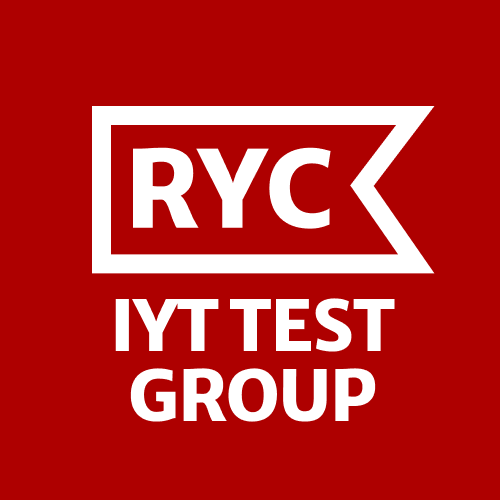
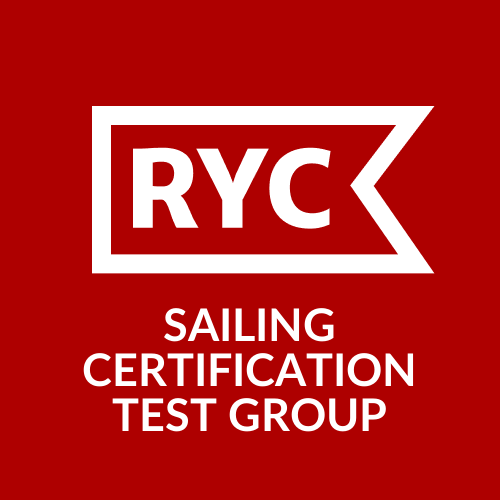
App: "Sailing Certification Test" instead of "IYT Test", and no "IYT" in any text people read
The app, the site pages, the bot texts, the MCP server and the question banks no longer say "IYT":
the product is "Sailing Certification Test", "IYT exam" reads "sailing certification exam"
(«экзамен на яхтенный сертификат»), level titles drop the prefix ("Bareboat Skipper"), and the
disclaimers say "not official exam content". The group picture (miniapp/group.png) now reads
"Sailing Certification Test Group". Bot descriptions are trimmed to stay within Telegram's limits.

Kept as they are: the domain, @iyt_test_bot, the group link, the repo and MCP registry ids,
storage keys, and "IYT" in code comments and internal names. Not live yet: npm run db:load
(level titles, three questions), npm run bot:setup, the deploy, and the group's name in Telegram.

Changed region(s): [[0.15, 0.57, 0.84, 0.87]]

diff --git a/miniapp/app.js b/miniapp/app.js
@@ -125,7 +125,7 @@ const STR = {
     picPh: 'For example: the starboard sidelight is drawn red, it should be green',
     readUpK: 'Where to read', mistakesIn: (n) => pl(n, 'mistake'),
     soon: 'Coming soon', soon2027: 'Coming in 2027', planned: 'Planned',
-    homeKicker: 'IYT theory · free', homeTitle: 'Pass your IYT&nbsp;exam',
+    homeKicker: 'Sailing certification theory · free', homeTitle: 'Pass your sailing certification&nbsp;exam',
     homeLead: 'Close-to-real questions for every certification level, with an explanation after each answer. Pick the level you are studying for.',
     streak: (n) => `${n}-day streak`,
     levelMeta: (t, q, ex) => `${pl(t, 'topic')} · ${pl(q, 'question')}${ex ? ' · ' + pl(ex, 'exam') + ' taken' : ''}`,
@@ -134,8 +134,8 @@ const STR = {
     mastered: 'mastered', covered: 'covered', halfway: 'right once', halfwayN: (n) => `+${n} right once`, moreLevels: 'More levels',
     regK: 'Game', regTitle: 'Regatta: sail a race in 3D', regText: 'Race a yacht against three boats round a windward–leeward course, in light, medium or strong wind. Steer, trim the sheet, tack and read the gusts.', regBtn: 'Play',
     mcpK: 'For AI assistants', mcpTitle: 'Practise in Claude or ChatGPT', mcpText: 'The questions and the theory are also an MCP server: add it to your AI assistant and it quizzes you, checks your answers and explains the rule.', mcpBtn: 'How to connect it',
-    grpK: 'Discuss the questions', grpName: 'IYT Test · Discussion', grpRole: 'Telegram group for students', grpText: 'Ask why an answer is right, talk through the tricky ones, tell how your exam went.', grpBtn: 'Join the group',
-    fbK: 'Feedback?', fbRole: 'Author of IYT Test', fbText: 'Found a mistake in a question, missing a topic or have an idea? Write to me on Telegram, I read every message.', fbBtn: 'Write on Telegram',
+    grpK: 'Discuss the questions', grpName: 'Sailing Certification Test · Discussion', grpRole: 'Telegram group for students', grpText: 'Ask why an answer is right, talk through the tricky ones, tell how your exam went.', grpBtn: 'Join the group',
+    fbK: 'Feedback?', fbRole: 'Author of Sailing Certification Test', fbText: 'Found a mistake in a question, missing a topic or have an idea? Write to me on Telegram, I read every message.', fbBtn: 'Write on Telegram',
     ringLabel: (s, m) => `${s}% seen · ${m}% mastered`, answers: 'Answer options', figure: 'Figure',
     figNames: { anchor: 'Anchorage sketch', boat: 'Parts of a yacht', lines: 'Mooring lines', radio: 'VHF set', flag: 'Signal flags', tide: 'Tidal curve', sphere: 'Celestial sphere', altitude: 'Sextant altitude', bay: 'Bay chart', buoy: 'Buoy', card: 'Notes', chart: 'Chart extract', compass: 'Compass rose', dayshape: 'Day shape', encounter: 'Two vessels meeting', isobars: 'Weather map', lights: 'Navigation lights', panel: 'Instrument panel', rope: 'Rope and knot', sail: 'Sailing boat and wind' }, timeLeft: 'Time left', fiveLeft: '5 minutes left',
     nextLevelK: 'Next level', open: 'Open', resetNothing: 'Nothing to reset yet', retry: 'Try again', allTopicsChip: 'All topics',
@@ -169,7 +169,7 @@ const STR = {
       ['No explanations until you submit', 'Afterwards every mistake shows the right answer and why.'],
       ['Leaving pauses the timer', 'Close the app and the exam waits for you, up to 24 hours.']],
     lastAttempts: 'Last attempts', passedW: 'passed', notPassedW: 'not passed',
-    examDefaults: () => (LEVEL.id === 'racing-rules' ? 'Exam size, time and pass mark are app defaults — there is no official rules exam.' : LEVEL.id === 'charter-checkin' ? 'Exam size, time and pass mark are app defaults — there is no check-in exam, only a boat to take over.' : 'Exam size, time and pass mark are app defaults, not confirmed IYT figures.'),
+    examDefaults: () => (LEVEL.id === 'racing-rules' ? 'Exam size, time and pass mark are app defaults — there is no official rules exam.' : LEVEL.id === 'charter-checkin' ? 'Exam size, time and pass mark are app defaults — there is no check-in exam, only a boat to take over.' : 'Exam size, time and pass mark are app defaults, not official exam figures.'),
     startExam: 'Start the exam', continueExam: 'Continue the exam', startOver: 'Start over',
     confirmRestart: 'Start a new exam? The one in progress will be dropped.',
     nOf: (i, n) => `${i} of ${n}`, nextArrow: 'Next ›', finishDots: 'Finish…', prevArrow: '‹ Previous', allQuestions: 'All questions',
@@ -184,7 +184,7 @@ const STR = {
     costMost: (list) => `${list} cost you the most points.`, workFirst: 'Work on these first', fine: 'Fine',
     backToLevel: 'Back to the level', practiseWeak: (w) => `Practise the ${pl(w, 'topic')}`.replace('topic', 'weak topic'), practise: 'Practise', share: 'Share',
     reviewN: (n) => `Review ${pl(n, 'mistake')}`,
-    shareText: (p, lv) => (LEVEL.id === 'racing-rules' ? `I scored ${p}% on the ${lv} mock exam — situations on the race course, by the rules:` : LEVEL.id === 'charter-checkin' ? `I scored ${p}% on the ${lv} mock exam — taking over a charter yacht, step by step:` : `I scored ${p}% on the IYT ${lv} mock exam — practice questions for IYT levels:`), copied: 'Copied to the clipboard',
+    shareText: (p, lv) => (LEVEL.id === 'racing-rules' ? `I scored ${p}% on the ${lv} mock exam — situations on the race course, by the rules:` : LEVEL.id === 'charter-checkin' ? `I scored ${p}% on the ${lv} mock exam — taking over a charter yacht, step by step:` : `I scored ${p}% on the ${lv} mock exam — practice questions for sailing certification levels:`), copied: 'Copied to the clipboard',
     thisWeek: 'This week', answeredW: 'answered', dayStreak: 'day streak', masteryByTopic: 'Mastery by topic', practiseWeakest: 'Practise weakest ›',
     misMeta: (n) => `${pl(n, 'question')} answered wrong and not yet mastered`, noneNow: 'None right now',
     flaggedQ: 'Flagged questions', flagHint: 'Flag a question to keep it here',
@@ -196,7 +196,7 @@ const STR = {
     explain: 'Explain after each answer', explainMeta: 'Off = exam style, results at the end',
     reset: 'Reset progress', resetMeta: 'Mastery, mistakes, streak and exams', resetBtn: 'Reset',
     confirmReset: 'Reset all progress? Mastery, mistakes, streak and exam history will be cleared.', resetDone: 'Progress reset',
-    disclaimer: (v) => (LEVEL.id === 'racing-rules' ? `Questions are written for study from the Racing Rules of Sailing 2025–2028 and are not a World Sailing publication; the rules themselves are the authority. Bank version ${v}.` : LEVEL.id === 'charter-checkin' ? `Questions are written for study and are not any charter company's procedure; your contract and the base's briefing are the authority. Bank version ${v}.` : `Questions are written for study and are not official IYT exam content. Bank version ${v}.`), partEnglish: '', loading: 'Loading…',
+    disclaimer: (v) => (LEVEL.id === 'racing-rules' ? `Questions are written for study from the Racing Rules of Sailing 2025–2028 and are not a World Sailing publication; the rules themselves are the authority. Bank version ${v}.` : LEVEL.id === 'charter-checkin' ? `Questions are written for study and are not any charter company's procedure; your contract and the base's briefing are the authority. Bank version ${v}.` : `Questions are written for study and are not official exam content. Bank version ${v}.`), partEnglish: '', loading: 'Loading…',
     whatToPractise: 'What to practise?', all: 'All', none: 'None', weakPre: 'Weak topics are preselected. ', tapToggle: 'Tap a topic to practise just that; tap more to add.',
     questionsK: 'Questions', allN: (n) => `All ${n}`, mistakesOnly: 'Mistakes only', showAnswer: 'Explain after each answer',
     start: (n) => `Start · ${pl(n, 'question')}`, pickTopic: 'Pick a topic',
@@ -244,7 +244,7 @@ const STR = {
     picPh: 'Например: правый бортовой огонь нарисован красным, а должен быть зелёным',
     readUpK: 'Что почитать', mistakesIn: (n) => pl(n, 'mistake'),
     soon: 'Скоро', soon2027: 'В 2027 году', planned: 'В планах',
-    homeKicker: 'Теория IYT · бесплатно', homeTitle: 'Сдайте экзамен&nbsp;IYT',
+    homeKicker: 'Теория к яхтенным сертификатам · бесплатно', homeTitle: 'Сдайте экзамен на яхтенный&nbsp;сертификат',
     homeLead: 'Вопросы, близкие к настоящему экзамену, для каждого уровня — с пояснением после каждого ответа. Выберите уровень, к которому готовитесь.',
     streak: (n) => `${pl(n, 'day')} подряд`,
     levelMeta: (t, q, ex) => `${pl(t, 'topic')} · ${pl(q, 'question')}${ex ? ' · ' + pl(ex, 'exam') : ''}`,
@@ -253,8 +253,8 @@ const STR = {
     mastered: 'освоено', covered: 'пройдено', halfway: 'верно 1 раз', halfwayN: (n) => `+${n} верно 1 раз`, moreLevels: 'Другие уровни',
     regK: 'Игра', regTitle: 'Регата: гонка под парусом в 3D', regText: 'Гонка на яхте против трёх лодок по курсу «апвинд — даунвинд» при слабом, среднем или сильном ветре. Рули, работай шкотом, делай повороты и лови порывы.', regBtn: 'Играть',
     mcpK: 'Для ИИ-ассистентов', mcpTitle: 'Тренируйтесь в Claude или ChatGPT', mcpText: 'Вопросы и теория доступны и как MCP-сервер: добавьте его в свой ИИ-ассистент, и он будет задавать вопросы, проверять ответы и объяснять правило.', mcpBtn: 'Как подключить',
-    grpK: 'Обсуждайте вопросы', grpName: 'IYT Test · Discussion', grpRole: 'Группа в Telegram для тех, кто готовится', grpText: 'Спросите, почему ответ верный, разберите сложные вопросы, расскажите, как прошёл экзамен.', grpBtn: 'Вступить в группу',
-    fbK: 'Есть отзыв?', fbRole: 'Автор IYT Test', fbText: 'Нашли ошибку в вопросе, не хватает темы или есть идея? Напишите мне в Telegram — читаю каждое сообщение.', fbBtn: 'Написать в Telegram',
+    grpK: 'Обсуждайте вопросы', grpName: 'Sailing Certification Test · Discussion', grpRole: 'Группа в Telegram для тех, кто готовится', grpText: 'Спросите, почему ответ верный, разберите сложные вопросы, расскажите, как прошёл экзамен.', grpBtn: 'Вступить в группу',
+    fbK: 'Есть отзыв?', fbRole: 'Автор Sailing Certification Test', fbText: 'Нашли ошибку в вопросе, не хватает темы или есть идея? Напишите мне в Telegram — читаю каждое сообщение.', fbBtn: 'Написать в Telegram',
     ringLabel: (s, m) => `${s}% пройдено · ${m}% освоено`, answers: 'Варианты ответа', figure: 'Рисунок',
     figNames: { anchor: 'Схема якорной стоянки', boat: 'Устройство яхты', lines: 'Швартовы', radio: 'УКВ-радиостанция', flag: 'Сигнальные флаги', tide: 'Кривая прилива', sphere: 'Небесная сфера', altitude: 'Высота светила', bay: 'Карта бухты', buoy: 'Буй', card: 'Заметки', chart: 'Фрагмент карты', compass: 'Картушка компаса', dayshape: 'Дневной знак', encounter: 'Расхождение двух судов', isobars: 'Карта погоды', lights: 'Навигационные огни', panel: 'Приборная панель', rope: 'Трос и узел', sail: 'Парусная яхта и ветер' }, timeLeft: 'Осталось времени', fiveLeft: 'Осталось 5 минут',
     nextLevelK: 'Следующий уровень', open: 'Открыть', resetNothing: 'Сбрасывать пока нечего', retry: 'Повторить', allTopicsChip: 'Все темы',
@@ -288,7 +288,7 @@ const STR = {
       ['Пояснения — только после сдачи', 'Потом у каждой ошибки будет верный ответ и пояснение.'],
       ['Выход ставит таймер на паузу', 'Закройте приложение — экзамен подождёт до 24 часов.']],
     lastAttempts: 'Последние попытки', passedW: 'сдан', notPassedW: 'не сдан',
-    examDefaults: () => (LEVEL.id === 'racing-rules' ? 'Число вопросов, время и проходной балл — настройки приложения: официального экзамена по правилам нет.' : LEVEL.id === 'charter-checkin' ? 'Число вопросов, время и проходной балл — настройки приложения: экзамена по приёмке яхты нет, есть только сама яхта.' : 'Число вопросов, время и проходной балл — настройки приложения, а не подтверждённые данные IYT.'),
+    examDefaults: () => (LEVEL.id === 'racing-rules' ? 'Число вопросов, время и проходной балл — настройки приложения: официального экзамена по правилам нет.' : LEVEL.id === 'charter-checkin' ? 'Число вопросов, время и проходной балл — настройки приложения: экзамена по приёмке яхты нет, есть только сама яхта.' : 'Число вопросов, время и проходной балл — настройки приложения, а не официальные данные экзамена.'),
     startExam: 'Начать экзамен', continueExam: 'Продолжить экзамен', startOver: 'Начать заново',
     confirmRestart: 'Начать новый экзамен? Текущий будет сброшен.',
     nOf: (i, n) => `${i} из ${n}`, nextArrow: 'Далее ›', finishDots: 'Завершить…', prevArrow: '‹ Назад', allQuestions: 'Все вопросы',
@@ -303,7 +303,7 @@ const STR = {
     costMost: (list) => `Больше всего баллов потеряно в темах: ${list}.`, workFirst: 'Сначала подтяните', fine: 'В порядке',
     backToLevel: 'К уровню', practiseWeak: (w) => `Тренировать слабые темы (${w})`, practise: 'Тренировка', share: 'Поделиться',
     reviewN: (n) => `Разобрать ошибки (${n})`,
-    shareText: (p, lv) => (LEVEL.id === 'racing-rules' ? `Мой результат на пробном экзамене по правилам парусных гонок — ${p}%. Ситуации на дистанции по ППГ-25:` : LEVEL.id === 'charter-checkin' ? `Мой результат на пробном экзамене по приёмке чартерной яхты — ${p}%. Чек-ин шаг за шагом:` : `Мой результат на пробном экзамене IYT ${lv} — ${p}%. Вопросы для подготовки к IYT:`), copied: 'Скопировано',
+    shareText: (p, lv) => (LEVEL.id === 'racing-rules' ? `Мой результат на пробном экзамене по правилам парусных гонок — ${p}%. Ситуации на дистанции по ППГ-25:` : LEVEL.id === 'charter-checkin' ? `Мой результат на пробном экзамене по приёмке чартерной яхты — ${p}%. Чек-ин шаг за шагом:` : `Мой результат на пробном экзамене ${lv} — ${p}%. Вопросы для подготовки к яхтенным сертификатам:`), copied: 'Скопировано',
     thisWeek: 'Эта неделя', answeredW: 'отвечено', dayStreak: (n) => `${word(n, 'day')} подряд`, masteryByTopic: 'Освоение по темам', practiseWeakest: 'Тренировать слабые ›',
     misMeta: (n) => `Вопросов с ошибкой, ещё не освоенных: ${n}`, noneNow: 'Сейчас нет',
     flaggedQ: 'Отмеченные вопросы', flagHint: 'Отметьте вопрос — он появится здесь',
@@ -315,7 +315,7 @@ const STR = {
     explain: 'Пояснение после ответа', explainMeta: 'Выкл. — как на экзамене, итог в конце',
     reset: 'Сбросить прогресс', resetMeta: 'Освоение, ошибки, серия дней и экзамены', resetBtn: 'Сбросить',
     confirmReset: 'Сбросить весь прогресс? Освоение, ошибки, серия дней и история экзаменов будут удалены.', resetDone: 'Прогресс сброшен',
-    disclaimer: (v) => (LEVEL.id === 'racing-rules' ? `Вопросы написаны для подготовки по Правилам парусных гонок 2025–2028 и не являются публикацией World Sailing; сами правила — единственный источник. Версия банка ${v}.` : LEVEL.id === 'charter-checkin' ? `Вопросы написаны для подготовки и не являются процедурой какой-либо чартерной компании; ваш договор и брифинг на базе — единственный источник. Версия банка ${v}.` : `Вопросы написаны для подготовки и не являются официальными вопросами экзамена IYT. Версия банка ${v}.`),
+    disclaimer: (v) => (LEVEL.id === 'racing-rules' ? `Вопросы написаны для подготовки по Правилам парусных гонок 2025–2028 и не являются публикацией World Sailing; сами правила — единственный источник. Версия банка ${v}.` : LEVEL.id === 'charter-checkin' ? `Вопросы написаны для подготовки и не являются процедурой какой-либо чартерной компании; ваш договор и брифинг на базе — единственный источник. Версия банка ${v}.` : `Вопросы написаны для подготовки и не являются официальными вопросами экзамена. Версия банка ${v}.`),
     loading: 'Загрузка…',
     partEnglish: ' Перевод вопросов готовится — пока часть из них на английском.',
     whatToPractise: 'Что тренируем?', all: 'Все', none: 'Снять все', weakPre: 'Слабые темы уже выбраны. ', tapToggle: 'Нажмите тему, чтобы тренировать только её; ещё одну — чтобы добавить.',
@@ -848,7 +848,7 @@ function bootSkeleton() {
     b.querySelector('.sk-hero').outerHTML = `<div class="band resume">${sk('80px', '13px', ';margin:1.5px 0')}<div class="row" style="gap:14px"><span class="sk sk-ring"></span><div class="stack">${sk('120px', '15px', ';margin:2px 0')}${sk('140px', '12px', ';margin:2px 0')}</div></div>${sk('100%', '50px', ';border-radius:25px')}</div>`;
     b.querySelector('.sk-levels').insertAdjacentHTML('afterbegin', sk('60px', '13px', ';margin:1.5px 0'));
   }
-  if (!IN_TG) $app.insertAdjacentHTML('afterbegin', '<div class="tgh"><span></span><b>IYT Test</b><span></span></div>');
+  if (!IN_TG) $app.insertAdjacentHTML('afterbegin', '<div class="tgh"><span></span><b>Sailing Certification Test</b><span></span></div>');
   $app.insertAdjacentHTML('beforeend', navHtml('home', false));
   paintIcons($app);
 }
@@ -1397,7 +1397,7 @@ const VIEWS = {
         <p class="body-muted">${t('homeLead')}</p></div>`;
     const more = LEVELS.filter((l) => !(l.id && lvMeta(l.id)));
     return {
-      title: 'IYT Test', nav: 'home',
+      title: 'Sailing Certification Test', nav: 'home',
       body: `<div class="row sb-between" style="min-height:40px"><img class="logo" src="design/logo-black.svg" alt="RYC">${st ? `<span class="streak${grew ? ' grew' : ''}"><span class="fire" data-i="fire" data-s="14"></span>${t('streak', st)}</span>` : ''}</div>
         ${top}
         ${S.exam ? `<div class="continue" data-act="resumeExam"><div><span class="meta">${t('examOpen')}</span><div class="card-title" style="margin-top:4px">${examLine()}</div></div><span class="mini mini-accent">${t('continue')}</span></div>` : ''}
@@ -1667,7 +1667,7 @@ const VIEWS = {
     const exams = myExams().slice(0, 5).map((e) => `<div class="att"><span class="card-meta">${day(e.at)}</span><span class="card-meta">${e.pct}% · <span class="${e.passed ? 'acc' : 'bad-t'}">${e.passed ? t('passedW') : t('notPassedW')}</span></span></div>`).join('');
     const weakest = TOPICS.filter((tp) => topicSeen(tp.id)).sort((a, b) => topicAcc(a.id) - topicAcc(b.id) || topicPct(a.id) - topicPct(b.id)).slice(0, 3);
     return {
-      title: 'IYT Test', nav: 'progress',
+      title: 'Sailing Certification Test', nav: 'progress',
       body: `<div class="stack g4"><span class="meta">${LEVEL.title}${S.total ? ' · ' + t('answeredN', S.total) : ''}</span><h2 class="display-s">${t('progress')}</h2></div>
         <div class="stats"><div class="stat"><b data-count="${sp}" data-suffix="%" data-k="seen:${LEVEL.id}">${sp}%</b><span class="meta">${t('covered')}</span></div><div class="stat"><b data-count="${m}" data-k="m:${LEVEL.id}">${m}</b><span class="meta">${t('mastered')}</span></div><div class="stat"><b data-count="${st}" data-k="streak">${st}</b><span class="meta">${t('dayStreak', st)}</span></div></div>
         <div class="band" style="padding:16px 18px"><div class="row sb-between" style="margin-bottom:12px"><span class="kicker">${t('thisWeek')}</span><span class="meta">${pl(sum, 'question')}</span></div><div class="days">${days}</div></div>
@@ -1700,7 +1700,7 @@ const VIEWS = {
     // admins get the admin pages (api/admin.mjs says who)
     const admin = ADMIN ? `<div class="set" data-act="admin"><div><div class="card-title">${t('adminT')}</div><div class="card-meta">${t('adminMeta')}</div></div><span class="val">${svg('next', 16)}</span></div>` : '';
     return {
-      title: 'IYT Test', nav: 'profile',
+      title: 'Sailing Certification Test', nav: 'profile',
       body: `<div class="row" style="gap:14px"><span class="tg-ava" style="width:52px;height:52px;font-size:16px">${ava}</span><div><div class="card-title" style="font-size:18px">${esc(name)}</div>
           <div class="card-meta">${u ? (u.username ? '@' + esc(u.username) + ' · ' : '') + t('syncedTg') : t('savedBrowser')}</div></div></div>
         <div class="stack">

diff --git a/miniapp/index.html b/miniapp/index.html
@@ -4,9 +4,9 @@
 <meta charset="utf-8">
 <meta name="viewport" content="width=device-width, initial-scale=1, viewport-fit=cover">
 <meta name="theme-color" content="#ffffff">
-<title>IYT practice test: exam questions and theory, from VHF to Yachtmaster Ocean · IYT Test</title>
+<title>Sailing certification practice test: exam questions and theory, from VHF to Yachtmaster Ocean · Sailing Certification Test</title>
 <!-- for search engines and link previews; the address is SITE in site.mjs -->
-<meta name="description" content="Free IYT practice tests for every sailing level, VHF Radio Operator to Yachtmaster Ocean: drawn exam questions, the reason after every answer, theory and timed mock exams.">
+<meta name="description" content="Free sailing certification practice tests for every level, VHF Radio Operator to Yachtmaster Ocean: drawn exam questions, the reason after every answer, theory and timed mock exams.">
 <link rel="icon" href="/favicon.ico" sizes="48x48">
 <link rel="icon" href="/icon.png" sizes="192x192" type="image/png">
 <link rel="apple-touch-icon" href="/apple-icon.png">
@@ -17,15 +17,15 @@
 <link rel="alternate" hreflang="ru" href="https://iyt.rycrentals.com/ru">
 <link rel="alternate" hreflang="x-default" href="https://iyt.rycrentals.com/">
 <meta property="og:type" content="website">
-<meta property="og:site_name" content="IYT Test">
+<meta property="og:site_name" content="Sailing Certification Test">
 <meta property="og:url" content="https://iyt.rycrentals.com/">
-<meta property="og:title" content="IYT practice test: from VHF to Yachtmaster Ocean">
-<meta property="og:description" content="Free practice questions for every IYT sailing level: drawn situations, a note on every answer, timed mock exams. In English and Russian.">
+<meta property="og:title" content="Sailing certification practice test: from VHF to Yachtmaster Ocean">
+<meta property="og:description" content="Free practice questions for every sailing certification level: drawn situations, a note on every answer, timed mock exams. In English and Russian.">
 <meta property="og:image" content="https://iyt.rycrentals.com/intro.jpg">
 <meta property="og:image:width" content="1280">
 <meta property="og:image:height" content="720">
 <meta name="twitter:card" content="summary_large_image">
-<script type="application/ld+json">{"@context":"https://schema.org","@type":"WebApplication","name":"IYT Test","url":"https://iyt.rycrentals.com/","description":"Free practice questions for IYT sailing certification levels, from VHF Radio Operator to Yachtmaster Ocean, with mock exams. Written for study; not an IYT publication.","applicationCategory":"EducationalApplication","operatingSystem":"Web, Telegram","inLanguage":["en","ru"],"isAccessibleForFree":true,"offers":{"@type":"Offer","price":"0","priceCurrency":"USD"}}</script>
+<script type="application/ld+json">{"@context":"https://schema.org","@type":"WebApplication","name":"Sailing Certification Test","url":"https://iyt.rycrentals.com/","description":"Free practice questions for sailing certification levels, from VHF Radio Operator to Yachtmaster Ocean, with mock exams. Written for study; not an official exam publication.","applicationCategory":"EducationalApplication","operatingSystem":"Web, Telegram","inLanguage":["en","ru"],"isAccessibleForFree":true,"offers":{"@type":"Offer","price":"0","priceCurrency":"USD"}}</script>
 <script src="https://telegram.org/js/telegram-web-app.js"></script>
 <link rel="stylesheet" href="fonts/fonts.css">
 <link rel="stylesheet" href="design/app.css">
@@ -35,11 +35,11 @@
 <body>
 <!-- what a reader (or a crawler) without JavaScript gets: the home page in words; build.mjs fills in the levels from the banks -->
 <noscript><div class="wrap" style="padding:24px 16px">
-  <h1 class="display">IYT exam practice</h1>
-  <p class="body-muted">Close-to-real questions for every IYT certification level, with an explanation after each answer: drawn situations (the mark ahead, the lights at night, the other boat's bearing), practice by topic and a timed mock exam. Free, in English and Russian. Written for study; not an IYT publication.</p>
-  <p class="body-muted" lang="ru">Вопросы для подготовки к экзаменам IYT на английском и русском — с пояснением после каждого ответа. <a href="/ru">Русская версия</a>.</p>
+  <h1 class="display">Sailing certification exam practice</h1>
+  <p class="body-muted">Close-to-real questions for every sailing certification level, with an explanation after each answer: drawn situations (the mark ahead, the lights at night, the other boat's bearing), practice by topic and a timed mock exam. Free, in English and Russian. Written for study; not an official exam publication.</p>
+  <p class="body-muted" lang="ru">Вопросы для подготовки к экзаменам на яхтенные сертификаты на английском и русском — с пояснением после каждого ответа. <a href="/ru">Русская версия</a>.</p>
   <ul data-levels></ul>
-  <p class="body-muted">Each level has a theory article for every topic. Turn on JavaScript to practise, or open it in Telegram: <a href="https://t.me/iyt_test_bot">@iyt_test_bot</a>. <a href="/about">About IYT Test</a>.</p>
+  <p class="body-muted">Each level has a theory article for every topic. Turn on JavaScript to practise, or open it in Telegram: <a href="https://t.me/iyt_test_bot">@iyt_test_bot</a>. <a href="/about">About Sailing Certification Test</a>.</p>
   <p class="body-muted">For AI assistants: the questions and the theory are also an MCP server. Add it to Claude, ChatGPT or any MCP client and practise in a conversation: <a href="/mcp">how to connect it</a>.</p>
 </div></noscript>
 <div class="screen app" id="app">

diff --git a/miniapp/regatta/main.js b/miniapp/regatta/main.js
@@ -14,7 +14,7 @@ const T = {
     how1: '<b>Left thumb</b>: slide on the arc to steer.', how2: '<b>Right thumb</b>: sheet slider — up pulls the sails in, down lets them out. Keep the telltales green.',
     how3: '<b>Tack</b> turns you through the wind; downwind it becomes <b>Gybe</b>. <b>Kite</b> sets the gennaker on a run.',
     how4: 'Dark patches on the water are gusts: ease the sheet before you heel too far. Start after the gun, round the yellow-arrow mark, finish through the line.',
-    rotate: 'Turn your phone sideways for the best view.', back: '← Back to IYT Test',
+    rotate: 'Turn your phone sideways for the best view.', back: '← Back to Sailing Certification Test',
     kn: 'kn', drone: 'Drone', helm: 'Helm', tack: 'Tack', gybe: 'Gybe', kite: 'Kite', in: 'In', out: 'Out',
     ok: 'Trim OK', pullIn: 'Pull in', easeOut: 'Ease out', irons: 'In irons',
     startIn: 'Start in', lineStart: 'Start line', mark: 'Windward mark', gate: 'Leeward gate', finish: 'Finish line', ocsS: 'OCS — return below the line',
@@ -31,7 +31,7 @@ const T = {
     how1: '<b>Левый палец</b>: веди по дуге, чтобы рулить.', how2: '<b>Правый палец</b>: шкот — вверх выбрать, вниз потравить. Колдунчики должны быть зелёными.',
     how3: '<b>Поворот</b> — оверштаг через ветер; на полных курсах он становится <b>фордевиндом</b>. <b>Генакер</b> — для попутного ветра.',
     how4: 'Тёмные пятна на воде — порывы: потрави шкот, пока крен не стал слишком большим. Стартуй после сигнала, обогни знак под жёлтой стрелкой, финишируй через линию.',
-    rotate: 'Поверните телефон горизонтально.', back: '← Назад в IYT Test',
+    rotate: 'Поверните телефон горизонтально.', back: '← Назад в Sailing Certification Test',
     kn: 'уз', drone: 'Дрон', helm: 'Штурвал', tack: 'Поворот', gybe: 'Фордевинд', kite: 'Генакер', in: 'Выбрать', out: 'Травить',
     ok: 'Паруса в норме', pullIn: 'Выбери шкот', easeOut: 'Потрави шкот', irons: 'Левентик',
     startIn: 'Старт через', lineStart: 'Линия старта', mark: 'Верхний знак', gate: 'Нижние ворота', finish: 'Финиш', ocsS: 'Фальстарт — вернись за линию',

diff --git a/docs/design/icons.html b/docs/design/icons.html
@@ -4,7 +4,7 @@
 <meta charset="utf-8">
 <meta name="viewport" content="width=device-width, initial-scale=1">
 <meta name="robots" content="noindex, nofollow">
-<title>IYT Test · icons</title>
+<title>Sailing Certification Test · icons</title>
 <link rel="stylesheet" href="https://fonts.googleapis.com/css2?family=Merriweather:wght@300;400;700&family=Carlito:wght@400;700&display=swap">
 <link rel="stylesheet" href="app.css">
 <style>
@@ -23,7 +23,7 @@
 </head>
 <body class="tgcard">
 <div class="bar"><button onclick="document.body.classList.toggle('theme-night')">Day / night</button></div>
-<h1>IYT Test icons</h1>
+<h1>Sailing Certification Test icons</h1>
 <p class="lead">24 grid, 2 px line, round caps, 2 px clear of the edges. Each shown at 24 px and at 18 px in the topic circle, the way the app draws it.</p>
 <div id="sheet"></div>
 <script src="icons.js"></script>

diff --git a/miniapp/regatta.html b/miniapp/regatta.html
@@ -3,7 +3,7 @@
 <head>
 <meta charset="utf-8">
 <meta name="viewport" content="width=device-width, initial-scale=1, maximum-scale=1, user-scalable=no, viewport-fit=cover">
-<title>Regatta · IYT Test</title>
+<title>Regatta · Sailing Certification Test</title>
 <meta name="description" content="A 3D sailing game: race a yacht round a windward–leeward course against three boats, in light, medium or strong wind.">
 <meta name="robots" content="noindex">
 <meta name="theme-color" content="#0b3550">

diff --git a/data/build_level.py b/data/build_level.py
@@ -18,7 +18,7 @@ sys.path.insert(0, os.path.dirname(os.path.abspath(__file__)))
 from i18n import figure_texts  # noqa: E402
 
 HERE = os.path.dirname(os.path.abspath(__file__))
-NOTE = ('Scenario questions written for study, close to the IYT {name} syllabus. Not official IYT exam content. '
+NOTE = ('Scenario questions written for study, close to the {name} syllabus. Not official exam content. '
         'figure is a spec for docs/design/figures.js (null = text question). Pass mark, exam size and time are app defaults to verify.')
 
 RRS_NOTE = ('Scenario questions on the Racing Rules of Sailing 2025–2028 (World Sailing), written for study: real situations on the '
@@ -26,7 +26,7 @@ RRS_NOTE = ('Scenario questions on the Racing Rules of Sailing 2025–2028 (Worl
             'figure is a spec for docs/design/figures.js (null = text question). Pass mark, exam size and time are app defaults.')
 
 CHECKIN_NOTE = ('Scenario questions on the charter check-in, written for study: taking over a bareboat at the base — papers, the walk-round, '
-                'engine, electrics, water and gas, instruments, safety gear, ground tackle — and handing it back. Not an IYT course and not '
+                'engine, electrics, water and gas, instruments, safety gear, ground tackle — and handing it back. Not a sailing certification course and not '
                 'any charter company\'s procedure; the contract and the base\'s briefing are the authority. figure is a spec for '
                 'docs/design/figures.js (null = text question). Pass mark, exam size and time are app defaults.')
 
@@ -194,7 +194,7 @@ def build(level):
             got = set((r.get('fig') or {}))
             assert want == got, f'{qid}: Russian figure paths {sorted(got)}, want {sorted(want)}'
             tr[qid] = {k: v for k, v in dict(q=r['q'], options=pick(r), why=r['why'], ref=r['ref'], figure=r.get('fig') or {}).items() if v}
-    bank = dict(level=level, title=L.get('title', f'IYT {L["name"]}'), lang='en', passMark=L['passMark'], examQuestions=L['examQuestions'],
+    bank = dict(level=level, title=L.get('title', L['name']), lang='en', passMark=L['passMark'], examQuestions=L['examQuestions'],
                 examMinutes=L['examMinutes'], version=L['version'], note=L.get('note', NOTE.format(name=L['name'])),
                 topics=[dict(id=t, title=n, icon=ic, count=sum(1 for x in Q if x['topic'] == t)) for t, n, _, _, ic in L['topics']],
                 questions=out)

diff --git a/data/build_bank.py b/data/build_bank.py
@@ -316,8 +316,8 @@ for i, x in enumerate(Q):
     wrong = x['o'][:]; rnd.shuffle(wrong); target = i % 4
     opts = wrong[:]; opts.insert(target, x['a'])
     out.append(dict(id=f'bs-{i + 1:03d}', topic=x['topic'], difficulty=x['difficulty'], q=x['q'], figure=x['fig'], options=opts, answer=target, why=x['why'], ref=x['ref'], **PHOTOS.get(x['q'], {})))
-bank = dict(level='bareboat-skipper', title='IYT Bareboat Skipper', lang='en', passMark=70, examQuestions=40, examMinutes=60, version='2026-11-02d',
-            note='Scenario questions written for study, close to the IYT Bareboat Skipper theory syllabus. Not official IYT exam content. '
+bank = dict(level='bareboat-skipper', title='Bareboat Skipper', lang='en', passMark=70, examQuestions=40, examMinutes=60, version='2026-11-02d',
+            note='Scenario questions written for study, close to the Bareboat Skipper theory syllabus. Not official exam content. '
                  'figure is a spec for docs/design/figures.js (null = text question). Pass mark, exam size and time are app defaults to verify.',
             topics=[dict(id=t, title=n, count=sum(1 for x in Q if x['topic'] == t)) for t, n in TOPICS], questions=out)
 path = os.path.join(os.path.dirname(os.path.abspath(__file__)), 'questions', 'bareboat-skipper.json')
